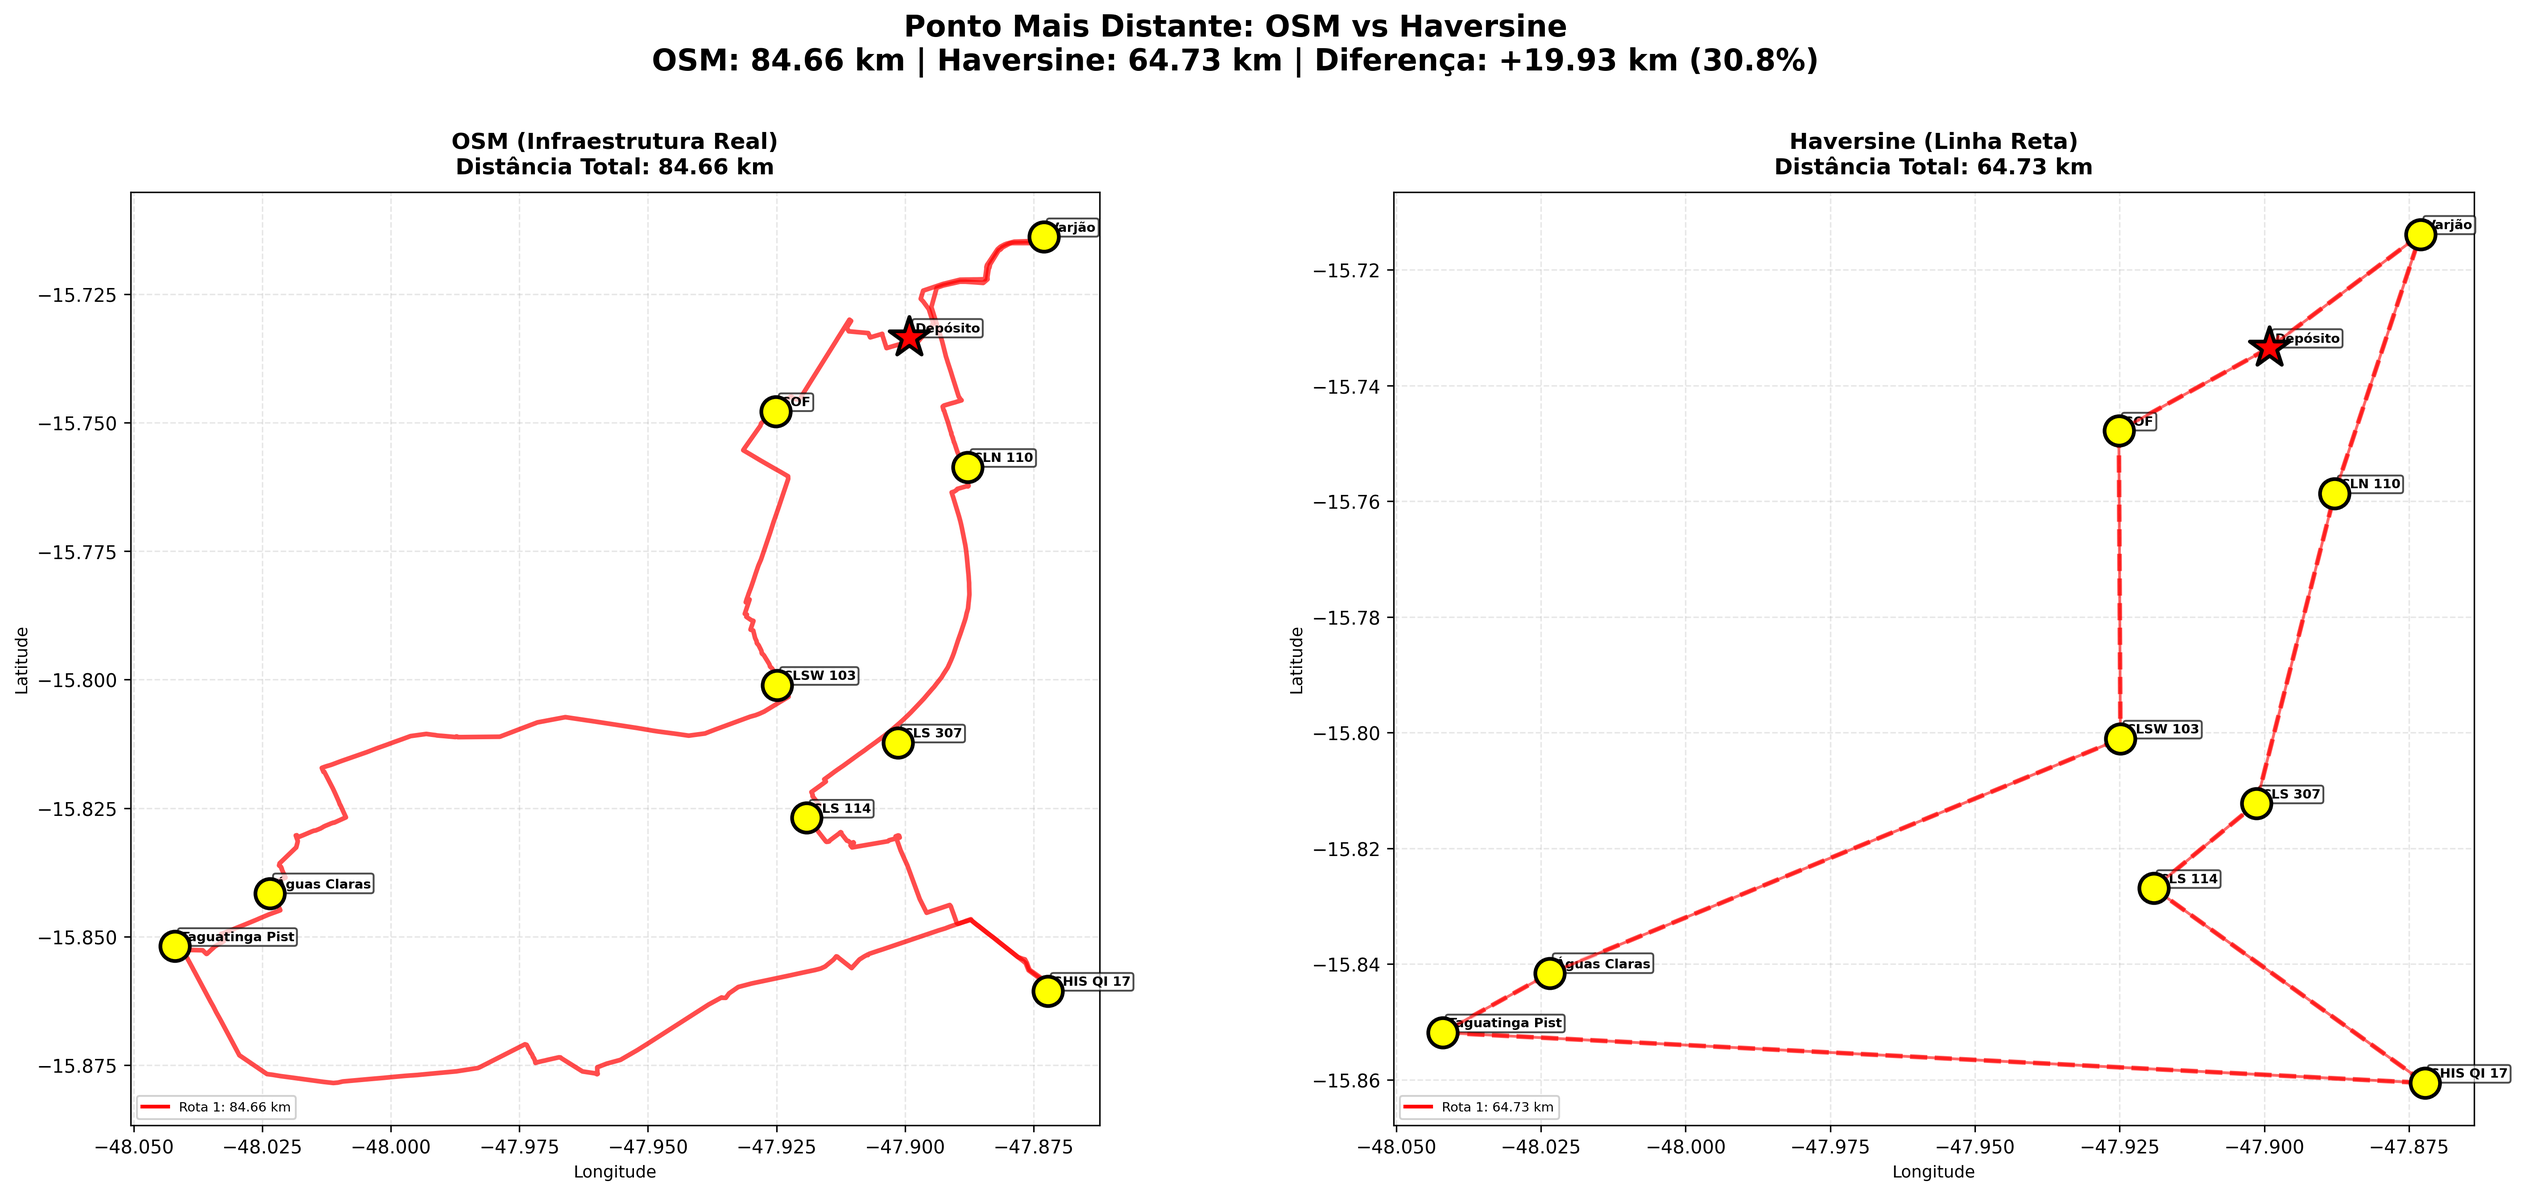
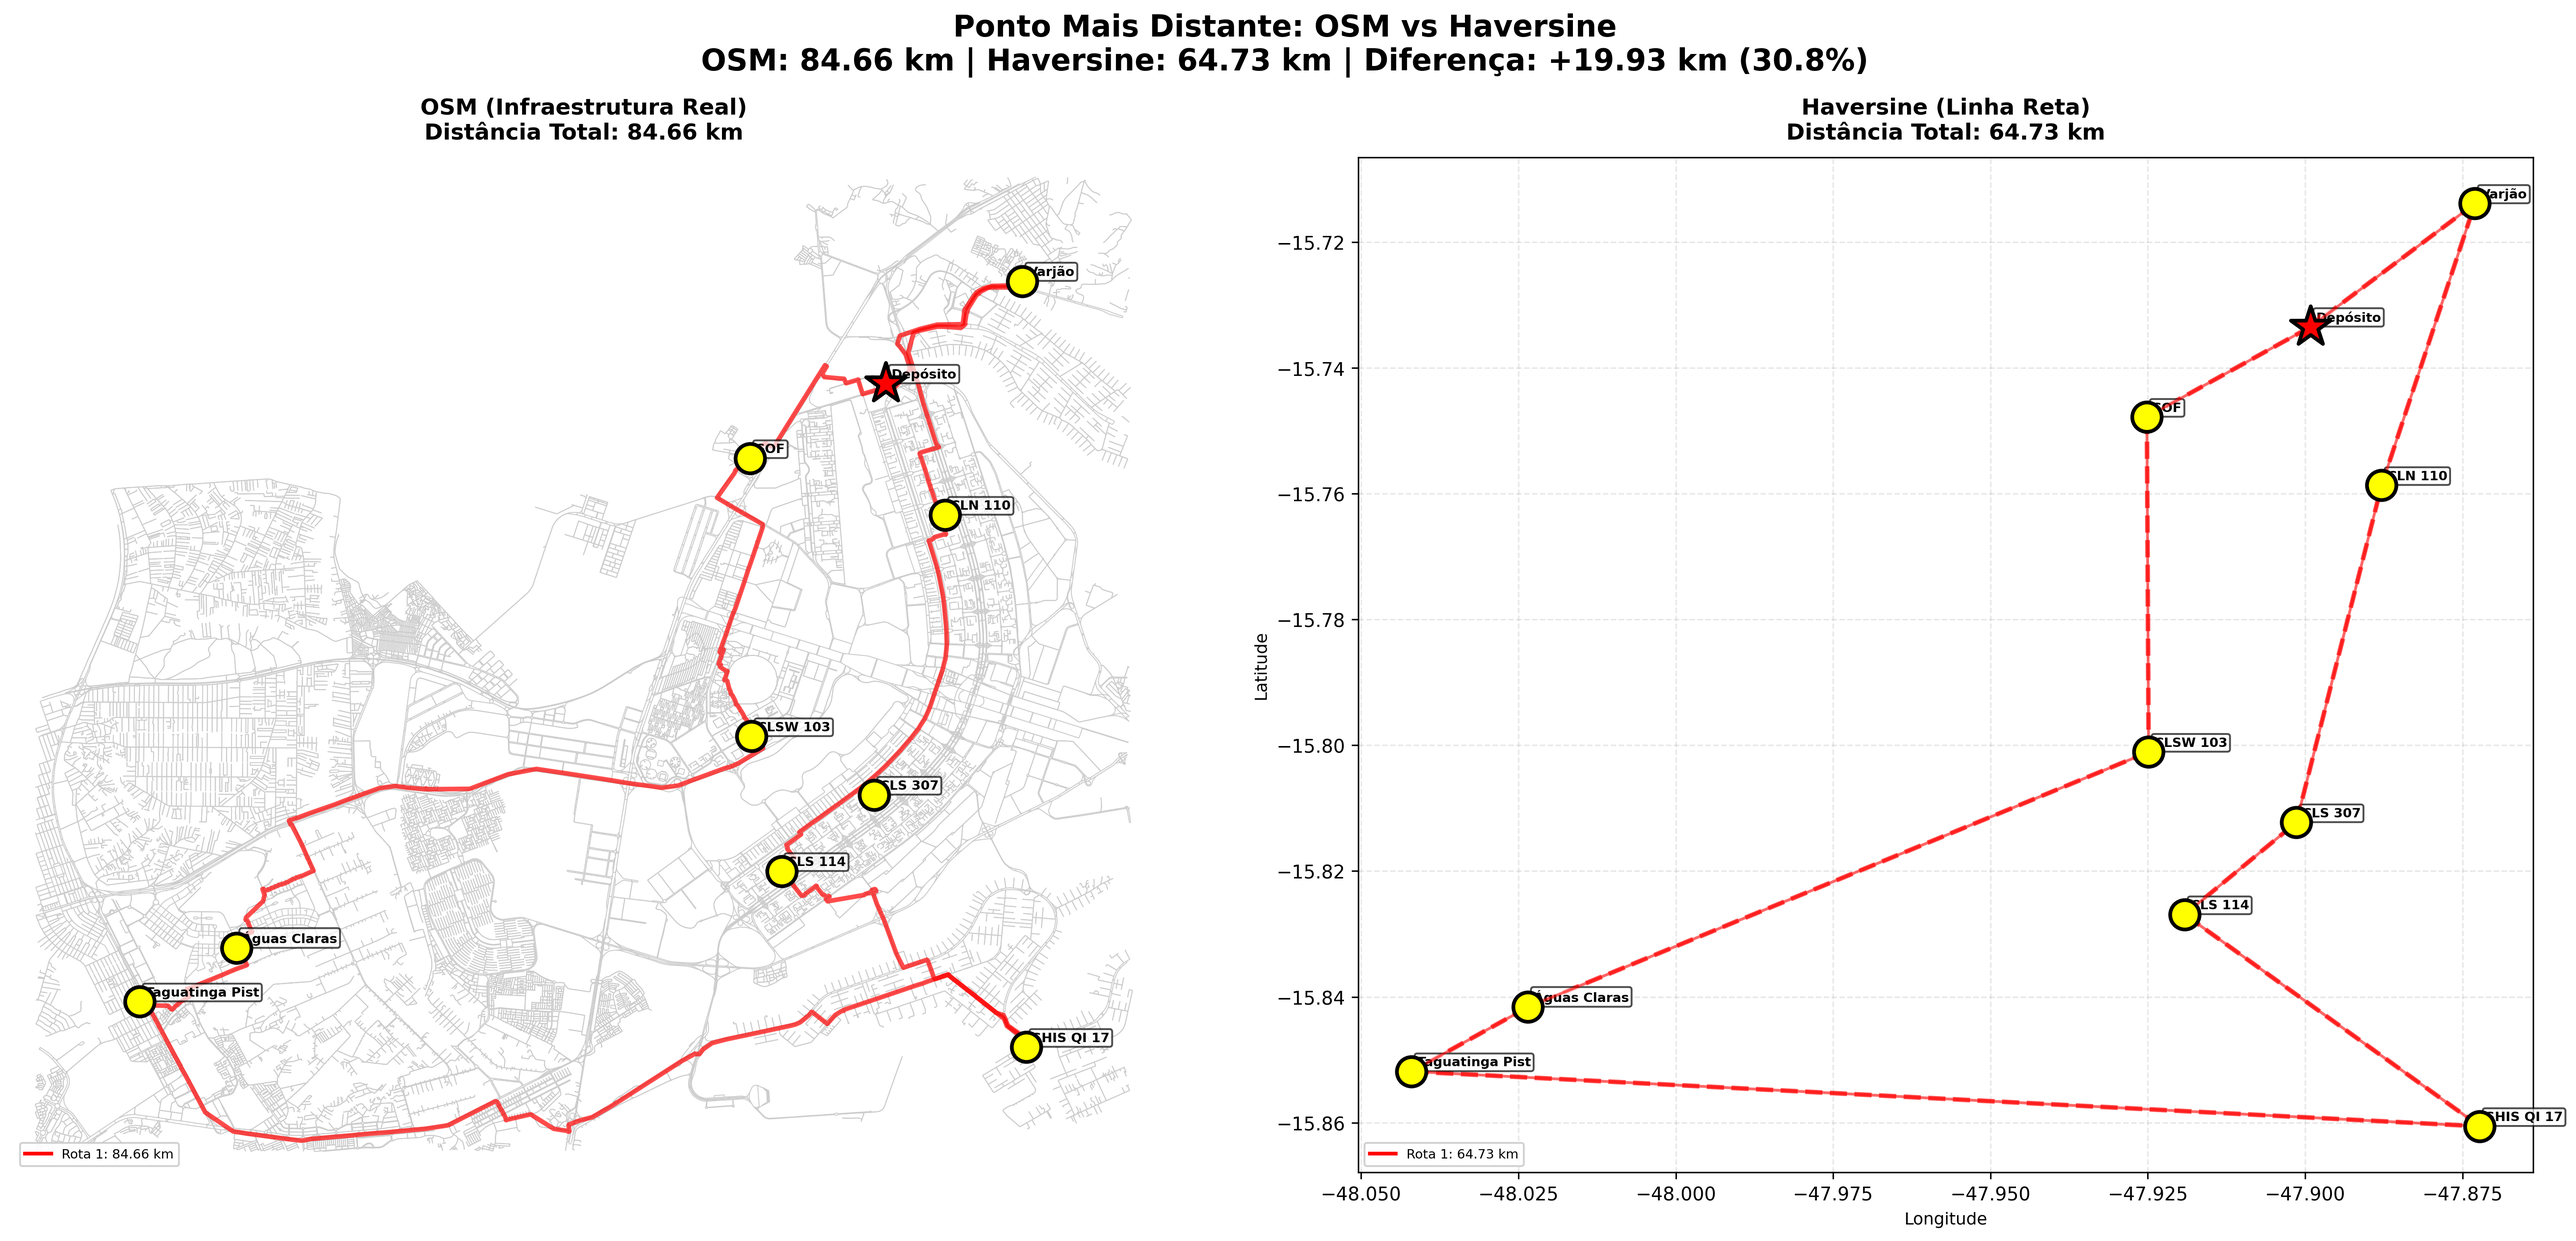
add BSB bg on osm_vs_haversine comparison; increase zoom out so that 'farthest' route doesn't get cut off

diff --git a/run.py b/run.py
@@ -98,7 +98,7 @@ print(f"✓ Grafo carregado: {len(G.nodes)} nós, {len(G.edges)} arestas")
 # Calcular bounding box baseado nos pontos de entrega
 lats = [clientes[i]["lat"] for i in ids]
 lons = [clientes[i]["lon"] for i in ids]
-margin = 0.01  # margem pequena
+margin = 0.02  # margem pequena
 bbox = {
     "north": max(lats) + margin,
     "south": min(lats) - margin,
@@ -1042,6 +1042,18 @@ for algo_name, result in all_results.items():
 
     # Criar figura com 2 subplots lado a lado
     fig, (ax1, ax2) = plt.subplots(1, 2, figsize=(20, 9))
+
+    # Plotar infraestrutura de fundo apenas no subplot OSM (esquerda)
+    ox.plot_graph(
+        G_bbox,
+        ax=ax1,
+        node_size=0,
+        edge_color="#CCCCCC",
+        edge_linewidth=0.5,
+        bgcolor="white",
+        show=False,
+        close=False,
+    )
 
     for ax, use_haversine, title_suffix in [
         (ax1, False, "OSM (Infraestrutura Real)"),
